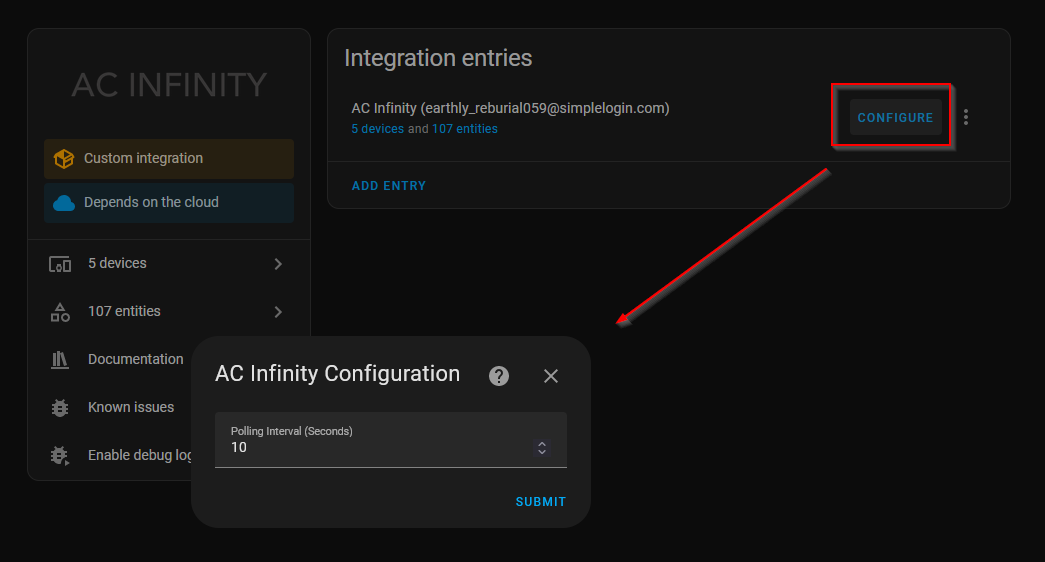
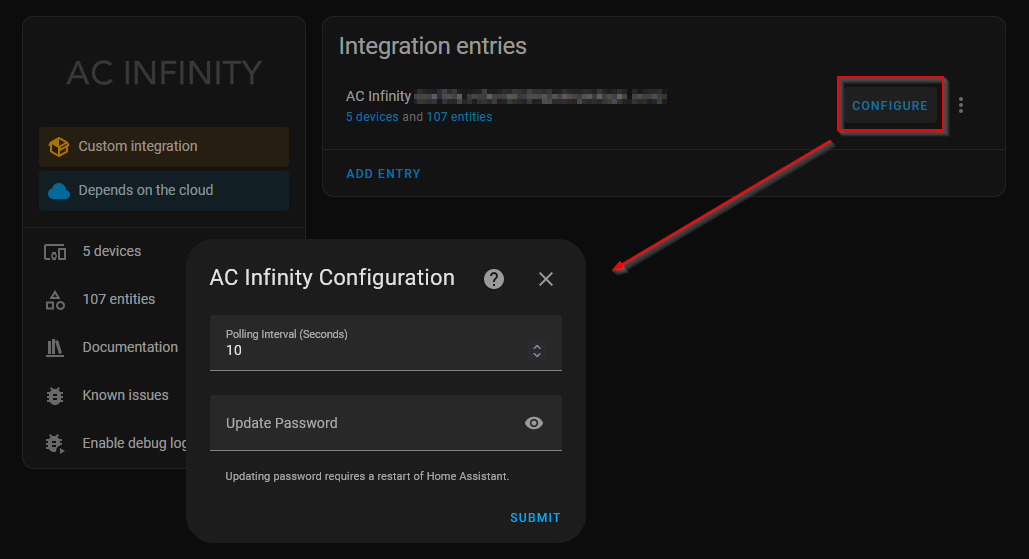
add support for updating passwords via options flow (#44)

diff --git a/tests/test_config_flow.py b/tests/test_config_flow.py
@@ -1,7 +1,7 @@
 import asyncio
 from asyncio import Future
 from datetime import timedelta
-from unittest.mock import MagicMock
+from unittest.mock import ANY
 
 import pytest
 import voluptuous as vol
@@ -13,6 +13,7 @@ from custom_components.ac_infinity.client import (
     ACInfinityClient,
     ACInfinityClientCannotConnect,
     ACInfinityClientInvalidAuth,
+    ACInfinityClientRequestFailed,
 )
 from custom_components.ac_infinity.config_flow import (
     CONFIG_SCHEMA,
@@ -21,6 +22,7 @@ from custom_components.ac_infinity.config_flow import (
 )
 from custom_components.ac_infinity.const import (
     CONF_POLLING_INTERVAL,
+    CONF_UPDATE_PASSWORD,
     DEFAULT_POLLING_INTERVAL,
 )
 from tests import ACTestObjects, setup_entity_mocks
@@ -57,7 +59,10 @@ def setup_options_flow(mocker: MockFixture):
     future.set_result(None)
 
     mocker.patch.object(config_entries.OptionsFlow, "async_show_form")
+    mocker.patch.object(config_entries.OptionsFlow, "async_show_menu")
     mocker.patch.object(config_entries.OptionsFlow, "async_create_entry")
+    mocker.patch.object(ACInfinityClient, "login", return_value=future)
+    mocker.patch.object(ACInfinityClient, "get_all_device_info", return_value=future)
 
     return mocker
 
@@ -163,7 +168,10 @@ class TestConfigFlow:
         flow.async_show_form.assert_called_with(
             step_id="init",
             data_schema=vol.Schema(
-                {vol.Optional(CONF_POLLING_INTERVAL, default=expected_value): int}
+                {
+                    vol.Optional(CONF_POLLING_INTERVAL, default=expected_value): int,
+                    vol.Optional(CONF_UPDATE_PASSWORD): str,
+                }
             ),
             errors={},
         )
@@ -186,7 +194,8 @@ class TestConfigFlow:
                 {
                     vol.Optional(
                         CONF_POLLING_INTERVAL, default=DEFAULT_POLLING_INTERVAL
-                    ): int
+                    ): int,
+                    vol.Optional(CONF_UPDATE_PASSWORD): str,
                 }
             ),
             errors={},
@@ -194,7 +203,7 @@ class TestConfigFlow:
         flow.async_create_entry.assert_not_called()
 
     @pytest.mark.parametrize("user_input", [0, -5, 4])
-    async def test_options_flow_handler_show_form_with_error(
+    async def test_options_flow_handler_show_form_with_error_polling_interval(
         self, mocker: MockFixture, setup_options_flow, user_input
     ):
         """If provided polling interval is not valid, show form with error"""
@@ -211,10 +220,11 @@ class TestConfigFlow:
                 {
                     vol.Optional(
                         CONF_POLLING_INTERVAL, default=DEFAULT_POLLING_INTERVAL
-                    ): int
+                    ): int,
+                    vol.Optional(CONF_UPDATE_PASSWORD): str,
                 }
             ),
-            errors={"base": "invalid_polling_interval"},
+            errors={CONF_POLLING_INTERVAL: "invalid_polling_interval"},
         )
         flow.async_create_entry.assert_not_called()
 
@@ -224,21 +234,101 @@ class TestConfigFlow:
     ):
         """If provided polling interval is valid, update config and data coordinator with new value"""
         test_objects: ACTestObjects = setup_mocks
+        flow = test_objects.options_flow
 
-        config_entry = test_objects.configEntry
-        config_entry.data = {}
-        update_entry = mocker.patch.object(
-            config_entries.ConfigEntries, "async_update_entry"
+        await flow.async_step_init(
+            {CONF_POLLING_INTERVAL: user_input, CONF_UPDATE_PASSWORD: "hunter2"}
         )
 
-        flow = OptionsFlow(config_entry)
-        flow.hass = test_objects.hass
-        flow.hass.config_entries = MagicMock()
-        flow.hass.config_entries.async_update_entry = update_entry
-
-        await flow.async_step_init({CONF_POLLING_INTERVAL: user_input})
-
         flow.async_show_form.assert_not_called()
-        update_entry.assert_called()
+        flow.hass.config_entries.async_update_entry.assert_called_with(
+            ANY,
+            data={
+                CONF_EMAIL: "ac_infinity-myemail@unittest.com",
+                CONF_POLLING_INTERVAL: user_input,
+                CONF_PASSWORD: "hunter2",
+            },
+        )
 
         assert test_objects.coordinator.update_interval == timedelta(seconds=user_input)
+
+    async def test_restart_yes_sends_restart_signal(
+        self, mocker: MockFixture, setup_options_flow, setup_mocks
+    ):
+        """The signal for restarting home assistant is called when user selects Restart Now"""
+        test_objects: ACTestObjects = setup_mocks
+        flow = test_objects.options_flow
+
+        await flow.async_step_restart_yes(None)
+        flow.hass.services.async_call.assert_called_with("homeassistant", "restart")
+
+    async def test_restart_no_does_not_send_restart_signal(
+        self, mocker: MockFixture, setup_options_flow, setup_mocks
+    ):
+        """The signal for restarting home assistant is called when user selects Restart Later"""
+        test_objects: ACTestObjects = setup_mocks
+        flow = test_objects.options_flow
+
+        await flow.async_step_restart_no(None)
+        flow.hass.services.async_call.assert_not_called()
+
+    async def test_options_flow_handler_update_password_restart_dialog_shown(
+        self, mocker: MockFixture, setup_options_flow, setup_mocks
+    ):
+        """If user changed password, show restart dialog"""
+        test_objects: ACTestObjects = setup_mocks
+        flow = test_objects.options_flow
+
+        await flow.async_step_init({CONF_UPDATE_PASSWORD: "hunter2"})
+
+        flow.async_show_menu.assert_called_with(
+            step_id="notify_restart", menu_options=["restart_yes", "restart_no"]
+        )
+        flow.async_create_entry.assert_not_called()
+
+    async def test_options_flow_handler_password_not_updated_restart_dialog_not_shown(
+        self, mocker: MockFixture, setup_options_flow, setup_mocks
+    ):
+        """If user does not change password, don't show restart dialog"""
+        test_objects: ACTestObjects = setup_mocks
+        flow = test_objects.options_flow
+
+        await flow.async_step_init({CONF_POLLING_INTERVAL: 10})
+
+        flow.async_show_menu.assert_not_called()
+        flow.async_create_entry.assert_called()
+
+    @pytest.mark.parametrize(
+        "error,expected",
+        [
+            (ACInfinityClientCannotConnect, "cannot_connect"),
+            (ACInfinityClientInvalidAuth, "invalid_auth"),
+            (ACInfinityClientRequestFailed, "unknown"),
+        ],
+    )
+    async def test_options_flow_handler_show_form_with_error_bad_password(
+        self, mocker: MockFixture, setup_options_flow, setup_mocks, error, expected
+    ):
+        """If provided polling interval is not valid, show form with error"""
+
+        test_objects: ACTestObjects = setup_mocks
+        flow = test_objects.options_flow
+
+        mocker.patch.object(ACInfinityClient, "login", side_effect=error)
+
+        await flow.async_step_init({CONF_UPDATE_PASSWORD: "hunter2"})
+
+        flow.async_show_form.assert_called_with(
+            step_id="init",
+            data_schema=vol.Schema(
+                {
+                    vol.Optional(
+                        CONF_POLLING_INTERVAL, default=DEFAULT_POLLING_INTERVAL
+                    ): int,
+                    vol.Optional(CONF_UPDATE_PASSWORD): str,
+                }
+            ),
+            errors={CONF_UPDATE_PASSWORD: expected},
+        )
+        flow.hass.config_entries.async_update_entry.assert_not_called()
+        flow.async_create_entry.assert_not_called()

diff --git a/custom_components/ac_infinity/config_flow.py b/custom_components/ac_infinity/config_flow.py
@@ -18,7 +18,13 @@ from .client import (
     ACInfinityClientCannotConnect,
     ACInfinityClientInvalidAuth,
 )
-from .const import CONF_POLLING_INTERVAL, DEFAULT_POLLING_INTERVAL, DOMAIN, HOST
+from .const import (
+    CONF_POLLING_INTERVAL,
+    CONF_UPDATE_PASSWORD,
+    DEFAULT_POLLING_INTERVAL,
+    DOMAIN,
+    HOST,
+)
 
 _LOGGER = logging.getLogger(__name__)
 
@@ -86,12 +92,37 @@ class OptionsFlow(config_entries.OptionsFlow):
 
         errors: dict[str, str] = {}
         if user_input is not None:
-            polling_interval = user_input[CONF_POLLING_INTERVAL]
+            polling_interval = user_input.get(
+                CONF_POLLING_INTERVAL, DEFAULT_POLLING_INTERVAL
+            )
+            password = user_input.get(CONF_UPDATE_PASSWORD, None)
+
             if polling_interval < 5:
-                errors["base"] = "invalid_polling_interval"
-            else:
+                errors[CONF_POLLING_INTERVAL] = "invalid_polling_interval"
+
+            if password:
+                email = self.config_entry.data[CONF_EMAIL]
+                try:
+                    client = ACInfinityClient(
+                        HOST,
+                        email,
+                        password,
+                    )
+                    await client.login()
+                    _ = await client.get_all_device_info()
+                except ACInfinityClientCannotConnect:
+                    errors[CONF_UPDATE_PASSWORD] = "cannot_connect"
+                except ACInfinityClientInvalidAuth:
+                    errors[CONF_UPDATE_PASSWORD] = "invalid_auth"
+                except Exception:  # pylint: disable=broad-except
+                    _LOGGER.exception("Unexpected exception")
+                    errors[CONF_UPDATE_PASSWORD] = "unknown"
+
+            if not len(errors):
                 new_data = self.config_entry.data.copy()
                 new_data[CONF_POLLING_INTERVAL] = polling_interval
+                new_data[CONF_PASSWORD] = password
+
                 self.hass.config_entries.async_update_entry(
                     self.config_entry,
                     data=new_data,
@@ -103,6 +134,8 @@ class OptionsFlow(config_entries.OptionsFlow):
                 coordinator.update_interval = timedelta(seconds=polling_interval)
 
                 _LOGGER.info("Polling Interval changed to %s seconds", polling_interval)
+                if password:
+                    return await self.async_step_notify_restart()
                 return self.async_create_entry(title="", data={})
 
         cur_value = (
@@ -114,7 +147,22 @@ class OptionsFlow(config_entries.OptionsFlow):
         return self.async_show_form(
             step_id="init",
             data_schema=vol.Schema(
-                {vol.Optional(CONF_POLLING_INTERVAL, default=cur_value): int}
+                {
+                    vol.Optional(CONF_POLLING_INTERVAL, default=cur_value): int,
+                    vol.Optional(CONF_UPDATE_PASSWORD): str,
+                }
             ),
             errors=errors,
         )
+
+    async def async_step_notify_restart(self):
+        return self.async_show_menu(
+            step_id="notify_restart", menu_options=["restart_yes", "restart_no"]
+        )
+
+    async def async_step_restart_yes(self, _):
+        await self.hass.services.async_call("homeassistant", "restart")
+        return self.async_create_entry(title="", data={})
+
+    async def async_step_restart_no(self, _):
+        return self.async_create_entry(title="", data={})

diff --git a/tests/__init__.py b/tests/__init__.py
@@ -5,8 +5,9 @@ from asyncio import Future
 from typing import Union
 from unittest.mock import AsyncMock, MagicMock, NonCallableMagicMock
 
-from homeassistant.config_entries import ConfigEntry
-from homeassistant.core import HomeAssistant
+from homeassistant.config_entries import ConfigEntries, ConfigEntry
+from homeassistant.const import CONF_EMAIL
+from homeassistant.core import HomeAssistant, ServiceRegistry
 from homeassistant.helpers.entity import Entity
 from pytest_mock import MockFixture
 
@@ -17,6 +18,7 @@ from custom_components.ac_infinity import (
     ACInfinityPortEntity,
 )
 from custom_components.ac_infinity.ac_infinity import ACInfinity
+from custom_components.ac_infinity.config_flow import OptionsFlow
 from custom_components.ac_infinity.const import DOMAIN
 from tests.data_models import (
     DEVICE_INFO_DATA,
@@ -118,14 +120,27 @@ def setup_entity_mocks(mocker: MockFixture):
 
     hass.data = {DOMAIN: {ENTRY_ID: coordinator}}
 
-    configEntry = ConfigEntry()
-    configEntry.entry_id = ENTRY_ID
+    config_entry = ConfigEntry()
+    config_entry.entry_id = ENTRY_ID
+    config_entry.data = {CONF_EMAIL: ENTRY_ID}
 
     entities = EntitiesTracker()
 
+    update_entry = mocker.patch.object(ConfigEntries, "async_update_entry")
+
+    async_call = mocker.patch.object(ServiceRegistry, "async_call")
+
+    options_flow = OptionsFlow(config_entry)
+    options_flow.config_entry = config_entry
+    options_flow.hass = hass
+    options_flow.hass.config_entries = MagicMock()
+    options_flow.hass.config_entries.async_update_entry = update_entry
+    options_flow.hass.services = MagicMock()
+    options_flow.hass.services.async_call = async_call
+
     return ACTestObjects(
         hass,
-        configEntry,
+        config_entry,
         entities,
         ac_infinity,
         set_mock,
@@ -133,6 +148,7 @@ def setup_entity_mocks(mocker: MockFixture):
         write_ha_mock,
         coordinator,
         refresh_mock,
+        options_flow,
     )
 
 
@@ -148,6 +164,7 @@ class ACTestObjects:
         write_ha_mock,
         coordinator,
         refresh_mock,
+        options_flow,
     ) -> None:
         self.hass: HomeAssistant = hass
         self.configEntry: ConfigEntry = configEntry
@@ -158,3 +175,4 @@ class ACTestObjects:
         self.write_ha_mock: MockType = write_ha_mock
         self.coordinator: ACInfinityDataUpdateCoordinator = coordinator
         self.refresh_mock: MockType = refresh_mock
+        self.options_flow: OptionsFlow = options_flow

diff --git a/custom_components/ac_infinity/const.py b/custom_components/ac_infinity/const.py
@@ -14,6 +14,7 @@ PLATFORMS = [
 ]
 HOST = "http://www.acinfinityserver.com"
 CONF_POLLING_INTERVAL = "polling_interval"
+CONF_UPDATE_PASSWORD = "update_password"
 DEFAULT_POLLING_INTERVAL = 10
 
 # devInfoListAll ReadOnly Device Fields

diff --git a/README.md b/README.md
@@ -44,6 +44,7 @@ Add an integration entry as normal from integration section of the home assistan
 After adding an integration entry, the following additional configurations can be modified via the configuration options dialog.
 
 - **Polling Interval (Seconds)**: The time between update calls to the AC Infinity API.  Minimum allowed polling interval is 5 seconds.
+- **Update Password**: When provided, updates the password used to connect to your AC Infinity account.  Requires Home Assistant restart.
 
 ![Additional-Configuration](/images/additional-configuration.png)
 
